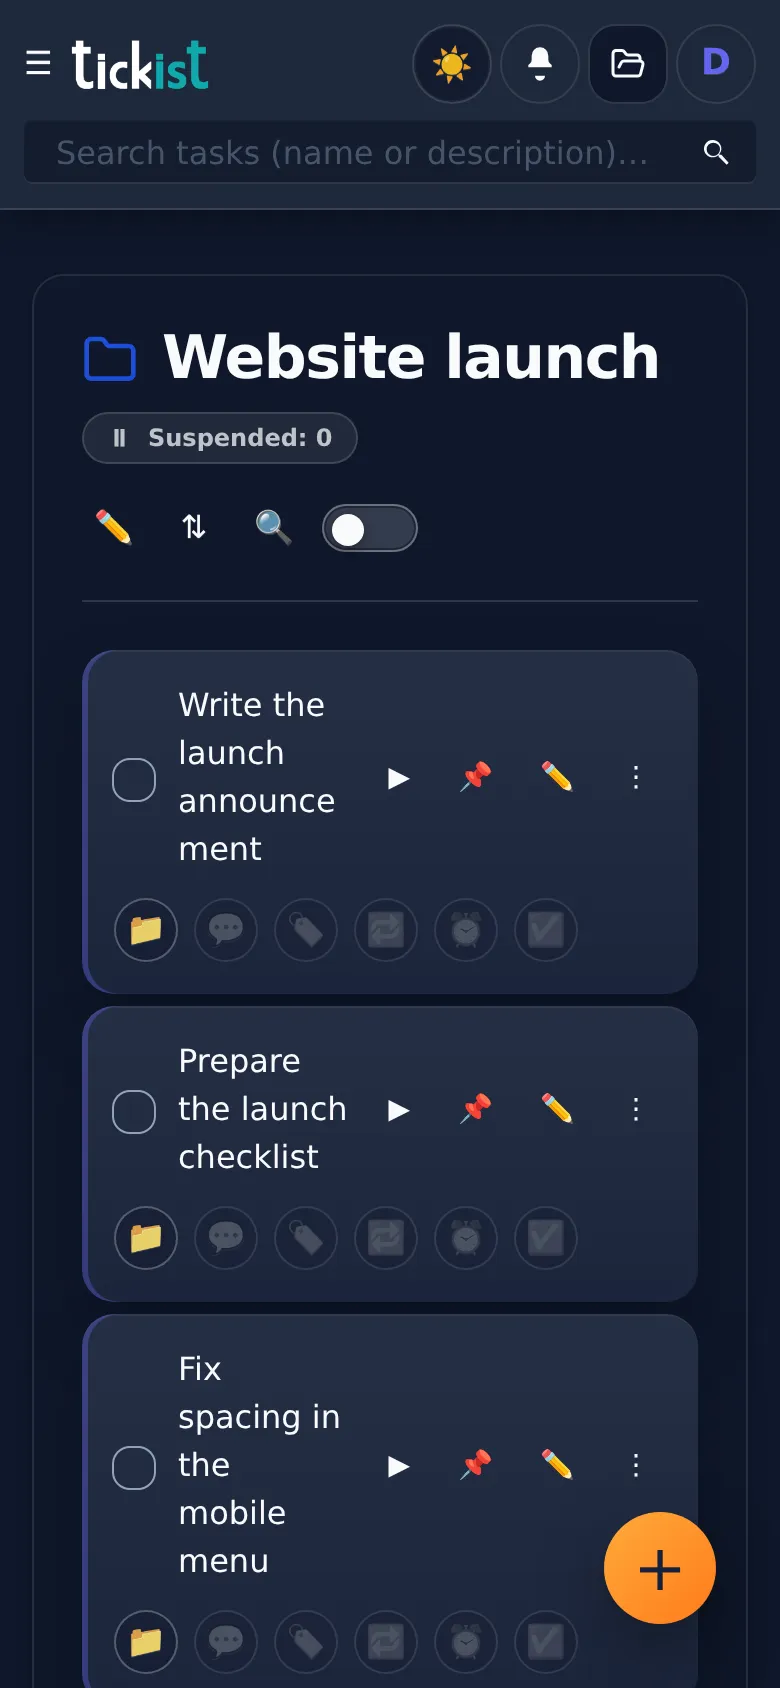
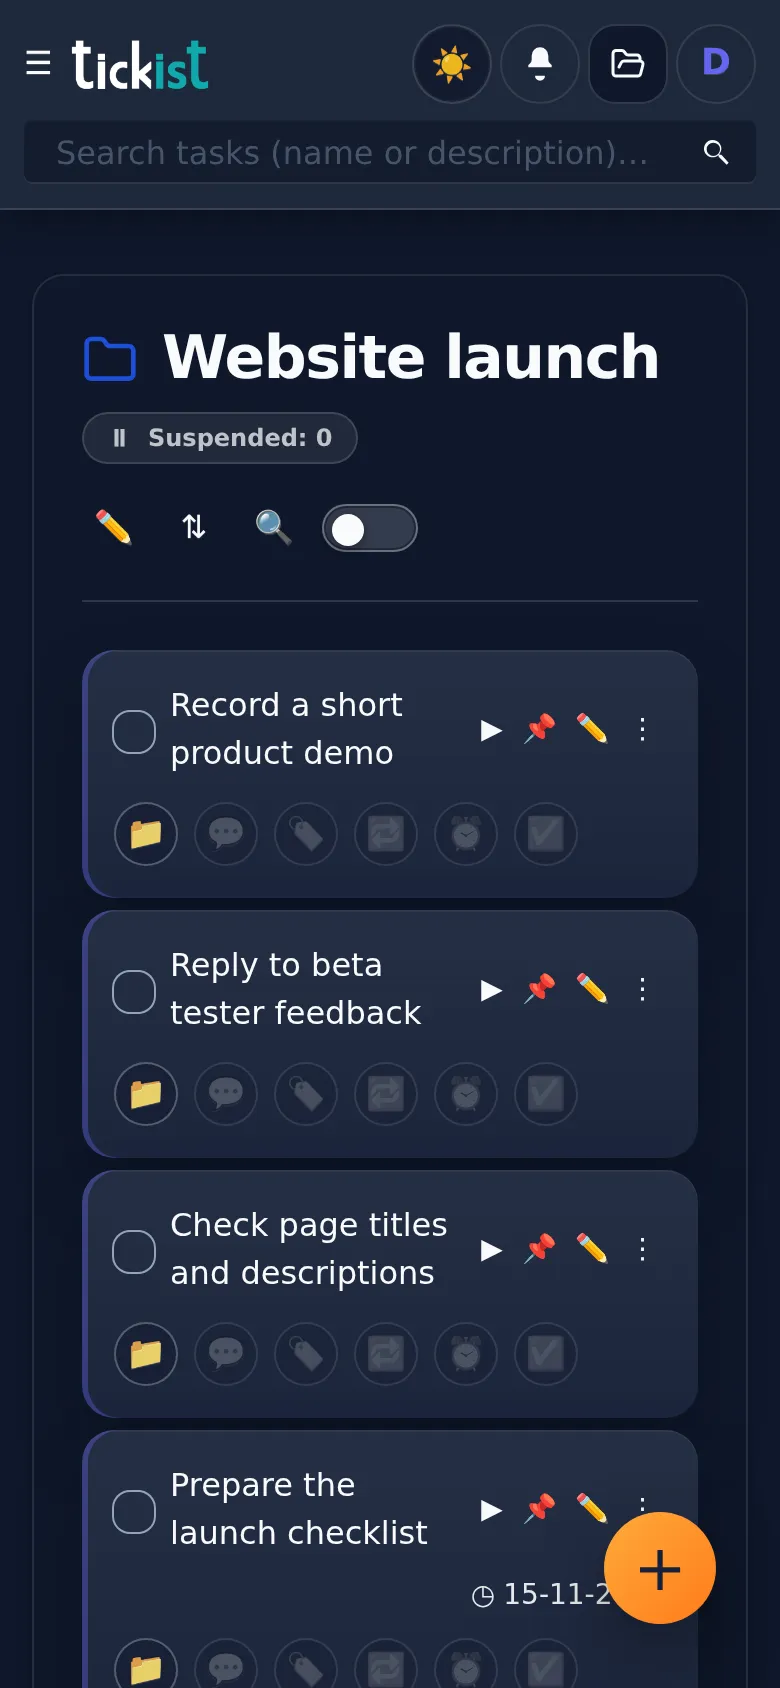
fix(dashboard): keep tasks due today out of Overdue and add Done today
- Today and Overdue compare calendar days in the account timezone
  (dueDayStatus). A due date is stored as the start of the day, so the
  old instant comparison made every task due today overdue as well.
- The web app now records when_complete when a task is completed and
  clears it when the task is reopened (MCP already did). Statistics and
  digests read this column too.
- Add a Done today group at the bottom of the dashboard, hidden when
  nothing was completed today.
- Narrow task cards tighten the action buttons and break titles only
  between words; refresh the phone screenshot in the manifest.

diff --git a/apps/tickist-web/src/app/features/dashboard/dashboard.component.ts b/apps/tickist-web/src/app/features/dashboard/dashboard.component.ts
@@ -13,6 +13,12 @@ import { TaskListComponent } from '../app-shell/task-list.component';
 import { AppViewStateService } from '../app-shell/app-view-state.service';
 import { TaskStatusService } from '../../data/task-status.service';
 import { WorkspaceDataService } from '../../data/workspace-data.service';
+import { TimeTrackingService } from '../../data/time-tracking.service';
+import {
+  type DueDayStatus,
+  dueDayStatus,
+  zonedDateKey,
+} from '../../core/time/zoned-time';
 
 @Component({
   selector: 'app-dashboard',
@@ -29,6 +35,7 @@ export class DashboardComponent {
   private readonly viewState = inject(AppViewStateService);
   private readonly taskStatus = inject(TaskStatusService);
   private readonly workspaces = inject(WorkspaceDataService);
+  private readonly timeTracking = inject(TimeTrackingService);
 
   readonly user = computed(() => this.session.user());
   readonly searchTerm = this.viewState.searchTerm;
@@ -81,31 +88,23 @@ export class DashboardComponent {
       );
     });
   });
-  readonly todayTasks = computed(() => {
-    const today = new Date();
+  readonly todayTasks = computed(() => this.tasksDue('today'));
+  readonly overdueTasks = computed(() => this.tasksDue('overdue'));
+  /** Tasks completed today in the account timezone, newest first. */
+  readonly doneTodayTasks = computed(() => {
+    const timezone = this.timeTracking.timezone();
+    const todayKey = zonedDateKey(new Date(), timezone);
 
-    return this.taskList().filter((task) => {
-      if (!task.finishDate) {
-        return false;
-      }
-
-      const finishDate = new Date(task.finishDate);
-
-      return finishDate.toDateString() === today.toDateString() && !task.isDone;
-    });
-  });
-  readonly overdueTasks = computed(() => {
-    const today = new Date();
-
-    return this.taskList().filter((task) => {
-      if (!task.finishDate) {
-        return false;
-      }
-
-      const finishDate = new Date(task.finishDate);
-
-      return finishDate < today && !task.isDone;
-    });
+    return this.taskList()
+      .filter(
+        (task) =>
+          task.isDone &&
+          !!task.whenComplete &&
+          zonedDateKey(new Date(task.whenComplete), timezone) === todayKey
+      )
+      .sort((a, b) =>
+        (b.whenComplete ?? '').localeCompare(a.whenComplete ?? '')
+      );
   });
   readonly pinnedTasks = computed(() =>
     this.taskList().filter((task) => task.pinned && !task.isDone)
@@ -162,6 +161,18 @@ export class DashboardComponent {
   );
   readonly projectForTaskList = (task: Task): Project | null =>
     this.projectOf(task.projectId);
+
+  private tasksDue(status: DueDayStatus): Task[] {
+    const now = new Date();
+    const timezone = this.timeTracking.timezone();
+
+    return this.taskList().filter(
+      (task) =>
+        !task.isDone &&
+        !!task.finishDate &&
+        dueDayStatus(task.finishDate, now, timezone) === status
+    );
+  }
 
   projectTaskCount(projectId: string): number {
     return this.projectTaskCounts().get(projectId) ?? 0;

diff --git a/apps/tickist-web-e2e/src/tasks-projects-flows.spec.ts b/apps/tickist-web-e2e/src/tasks-projects-flows.spec.ts
@@ -232,7 +232,7 @@ async function inboxCount(page: Page): Promise<number> {
   return Number(match[1]);
 }
 
-function taskCardByName(page: Page, taskName: string) {
+function taskCardByName(page: Page | Locator, taskName: string) {
   return page
     .locator('article.task-card')
     .filter({ hasText: taskName })
@@ -479,6 +479,52 @@ test('shows completion date and sorts project tasks', async ({
   await expect
     .poll(() => visibleTaskNames(page))
     .toEqual([firstTask, secondTask]);
+});
+
+test.describe('dashboard due and done groups', () => {
+  // "Do it today" stores the browser's midnight; the dashboard compares days
+  // in the account timezone (Europe/Warsaw for the E2E user). Align them so
+  // the test does not depend on the runner's clock near midnight.
+  test.use({ timezoneId: 'Europe/Warsaw' });
+
+  test('keeps a task due today out of Overdue and lists it under Done today once completed', async ({
+    page,
+  }, testInfo) => {
+    const taskName = `Due today ${uniqueSuffix(testInfo)}`;
+
+    const dashboardGroup = (title: string) =>
+      page.locator('app-dashboard article').filter({
+        has: page.getByRole('heading', { name: title, exact: true }),
+      });
+
+    await ensureAuthenticated(page);
+    await selectInbox(page);
+    await page.getByPlaceholder('What needs doing?').fill(taskName);
+    await page.getByRole('button', { name: 'Add task' }).click();
+
+    const card = taskCardByName(page, taskName);
+    await expect(card).toBeVisible();
+    const menu = await openTaskMenu(card);
+    await menu.getByRole('button', { name: 'Do it today' }).click();
+    await expect(page.getByText('Due today.')).toBeVisible();
+
+    await page.goto('/app');
+    await expect(dashboardGroup('Today').getByText(taskName)).toBeVisible();
+    await expect(dashboardGroup('Overdue').getByText(taskName)).toHaveCount(0);
+
+    await taskCardByName(dashboardGroup('Today'), taskName)
+      .locator('.task-card__check input[type="checkbox"]')
+      .click();
+
+    const doneToday = dashboardGroup('Done today');
+    await expect(doneToday.getByText(taskName)).toBeVisible();
+    await expect(page.locator('app-dashboard h2').last()).toHaveText(
+      'Done today'
+    );
+
+    await page.reload();
+    await expect(doneToday.getByText(taskName)).toBeVisible();
+  });
 });
 
 test('suspends a task with a resume time and separates it from active work', async ({

diff --git a/apps/tickist-web/src/app/data/task-data.service.spec.ts b/apps/tickist-web/src/app/data/task-data.service.spec.ts
@@ -93,6 +93,64 @@ describe('TaskDataService recurring completion', () => {
   });
 });
 
+describe('TaskDataService completion time', () => {
+  beforeEach(() => {
+    vi.useFakeTimers();
+    vi.setSystemTime(new Date('2025-05-10T12:00:00Z'));
+  });
+
+  afterEach(() => {
+    vi.useRealTimers();
+  });
+
+  it('records when a one-off task is completed', async () => {
+    const { service, updatePayloads } = await setupRecurringTaskService(
+      createTaskRow({ repeat_interval: 0 })
+    );
+
+    await service.updateTask({ id: 'task-1', isDone: true });
+
+    expect(updatePayloads[0]).toEqual(
+      expect.objectContaining({
+        is_done: true,
+        when_complete: '2025-05-10T12:00:00.000Z',
+      })
+    );
+  });
+
+  it('clears the completion time when a task is reopened', async () => {
+    const { service, updatePayloads } = await setupRecurringTaskService(
+      createTaskRow({
+        repeat_interval: 0,
+        is_done: true,
+        when_complete: '2025-05-09T08:00:00Z',
+      })
+    );
+
+    await service.updateTask({ id: 'task-1', isDone: false });
+
+    expect(updatePayloads[0]).toEqual(
+      expect.objectContaining({ is_done: false, when_complete: null })
+    );
+  });
+
+  it('leaves the completion time alone for other edits and recurring completions', async () => {
+    const oneOff = await setupRecurringTaskService(
+      createTaskRow({ repeat_interval: 0 })
+    );
+
+    await oneOff.service.updateTask({ id: 'task-1', name: 'Renamed' });
+    expect(oneOff.updatePayloads[0]).not.toHaveProperty('when_complete');
+
+    TestBed.resetTestingModule();
+
+    const recurring = await setupRecurringTaskService(createTaskRow());
+
+    await recurring.service.updateTask({ id: 'task-1', isDone: true });
+    expect(recurring.updatePayloads[0]).not.toHaveProperty('when_complete');
+  });
+});
+
 async function setupRecurringTaskService(row: TaskRow): Promise<{
   service: TaskDataService;
   updatePayloads: Partial<TaskRow>[];

diff --git a/apps/tickist-web/src/app/core/time/zoned-time.spec.ts b/apps/tickist-web/src/app/core/time/zoned-time.spec.ts
@@ -2,6 +2,7 @@ import { describe, expect, it } from 'vitest';
 import { draftToRange } from '../../features/task-fab/task-time-entries.component';
 import {
   dateKeysInRange,
+  dueDayStatus,
   periodLabel,
   periodRange,
   shiftDateKey,
@@ -118,5 +119,45 @@ describe('draftToRange', () => {
     expect(
       draftToRange({ date: '2026-11-04', from: '10:00', to: '' }, 'UTC')
     ).toBeNull();
+  });
+});
+
+describe('dueDayStatus', () => {
+  const timezone = 'Europe/Warsaw';
+  const now = new Date('2026-11-16T14:30:00Z');
+
+  const at = (date: string, time: string): string => {
+    const iso = zonedDateTimeToIso(date, time, timezone);
+
+    if (!iso) throw new Error(`invalid test date ${date} ${time}`);
+
+    return iso;
+  };
+
+  it('treats a task due at the start of today as due today, not overdue', () => {
+    const startOfToday = at('2026-11-16', '00:00');
+
+    expect(dueDayStatus(startOfToday, now, timezone)).toBe('today');
+  });
+
+  it('marks earlier days as overdue and later days as upcoming', () => {
+    const yesterday = at('2026-11-15', '23:30');
+    const tomorrow = at('2026-11-17', '00:00');
+
+    expect(dueDayStatus(yesterday, now, timezone)).toBe('overdue');
+    expect(dueDayStatus(tomorrow, now, timezone)).toBe('upcoming');
+  });
+
+  it('compares calendar days in the account timezone', () => {
+    // 23:30 UTC on 16 November is already 17 November in Warsaw.
+    const lateEvening = new Date('2026-11-16T23:30:00Z');
+    const dueSeventeenthUtc = '2026-11-17T00:00:00Z';
+
+    expect(dueDayStatus(dueSeventeenthUtc, lateEvening, timezone)).toBe(
+      'today'
+    );
+    expect(dueDayStatus(dueSeventeenthUtc, lateEvening, 'UTC')).toBe(
+      'upcoming'
+    );
   });
 });

diff --git a/apps/tickist-web/src/app/features/app-shell/task-card.component.css b/apps/tickist-web/src/app/features/app-shell/task-card.component.css
@@ -1,5 +1,6 @@
 .task-card {
   @apply rounded-2xl p-4 text-base-content transition;
+  container-type: inline-size;
   background: linear-gradient(
       180deg,
       rgb(var(--bc) / 0.065),
@@ -51,6 +52,10 @@
 
 .task-card__title .linkified {
   min-width: 0;
+  /* Break between words; split a word only when it is longer than the line.
+     The global "anywhere" lets the flex title shrink below one word. */
+  overflow-wrap: break-word;
+  word-break: normal;
 }
 
 .task-card__task-type {
@@ -709,6 +714,22 @@
   border-color: rgb(var(--bc) / 0.75);
   color: rgb(var(--bc));
   outline: none;
+}
+
+/* On narrow cards the four action buttons left the title about 85px, so
+   tighten them to give the task name room. */
+@container (max-width: 24rem) {
+  .task-card__row {
+    gap: 0.5rem;
+  }
+
+  .task-card__actions {
+    gap: 0;
+  }
+
+  .task-card__actions .icon-btn {
+    padding-inline: 0.3rem;
+  }
 }
 
 @media (max-width: 640px) {

diff --git a/apps/tickist-web/src/app/core/time/zoned-time.ts b/apps/tickist-web/src/app/core/time/zoned-time.ts
@@ -113,6 +113,26 @@ export function shiftDateKey(dateKey: string, days: number): string {
   return shifted.toISOString().slice(0, 10);
 }
 
+export type DueDayStatus = 'overdue' | 'today' | 'upcoming';
+
+/**
+ * Compares a task's due date with today by calendar day in the account
+ * timezone. A due date is stored as the start of that day, so comparing
+ * instants would make a task due today look overdue.
+ */
+export function dueDayStatus(
+  finishDate: string,
+  now: Date,
+  timezone: string
+): DueDayStatus {
+  const dueKey = zonedDateKey(new Date(finishDate), timezone);
+  const todayKey = zonedDateKey(now, timezone);
+
+  if (dueKey < todayKey) return 'overdue';
+
+  return dueKey === todayKey ? 'today' : 'upcoming';
+}
+
 function pad(value: number): string {
   return String(value).padStart(2, '0');
 }

diff --git a/apps/tickist-web/src/app/data/task-data.service.ts b/apps/tickist-web/src/app/data/task-data.service.ts
@@ -290,6 +290,20 @@ export class TaskDataService {
 
     const updatePayload = toTaskUpdatePayload(effectivePatchInput);
 
+    // Record when a task was completed so "Done today", statistics and
+    // digests can find it. A recurring completion moves the due date and
+    // keeps the task open, so it has no completion time.
+    if (
+      previous &&
+      !recurringCompletion &&
+      input.isDone !== undefined &&
+      input.isDone !== previous.isDone
+    ) {
+      updatePayload.when_complete = input.isDone
+        ? new Date().toISOString()
+        : null;
+    }
+
     if (Object.keys(updatePayload).length) {
       const { error } = await this.supabase
         .from('tasks')

diff --git a/apps/tickist-web/src/app/features/dashboard/dashboard.component.html b/apps/tickist-web/src/app/features/dashboard/dashboard.component.html
@@ -112,4 +112,22 @@
     </p>
     }
   </article>
+
+  @if (doneTodayTasks().length) {
+  <article
+    class="rounded-2xl border border-white/10 bg-base-200/60 p-5"
+    data-testid="dashboard-done-today"
+  >
+    <header class="mb-4 flex items-center justify-between">
+      <h2 class="text-lg font-semibold">Done today</h2>
+      <span class="badge badge-success badge-outline">{{
+        doneTodayTasks().length
+      }}</span>
+    </header>
+    <app-task-list
+      [tasks]="doneTodayTasks()"
+      [projectResolver]="projectForTaskList"
+    ></app-task-list>
+  </article>
+  }
 </section>

diff --git a/doc/product-features.md b/doc/product-features.md
@@ -64,7 +64,7 @@ Each account stores an IANA timezone. New registrations capture the browser time
 
 ## Focus views
 
-- **Dashboard:** today, overdue, pinned, next-action, and need-info work; project next-action coverage.
+- **Dashboard:** today, overdue, pinned, next-action, and need-info work; project next-action coverage. Today and Overdue compare calendar days in the account timezone, so a task due today is never overdue. A Done today group at the bottom lists tasks completed today and is hidden when there are none; completing a task records its completion time, and reopening clears it.
 - **Task tree:** project-oriented task grouping for scanning a wider workspace.
 - **Statistics:** completed work, late completions, overdue open work, and inactive projects over a time window.
 - **Tags:** cross-project filtering and ordering.
